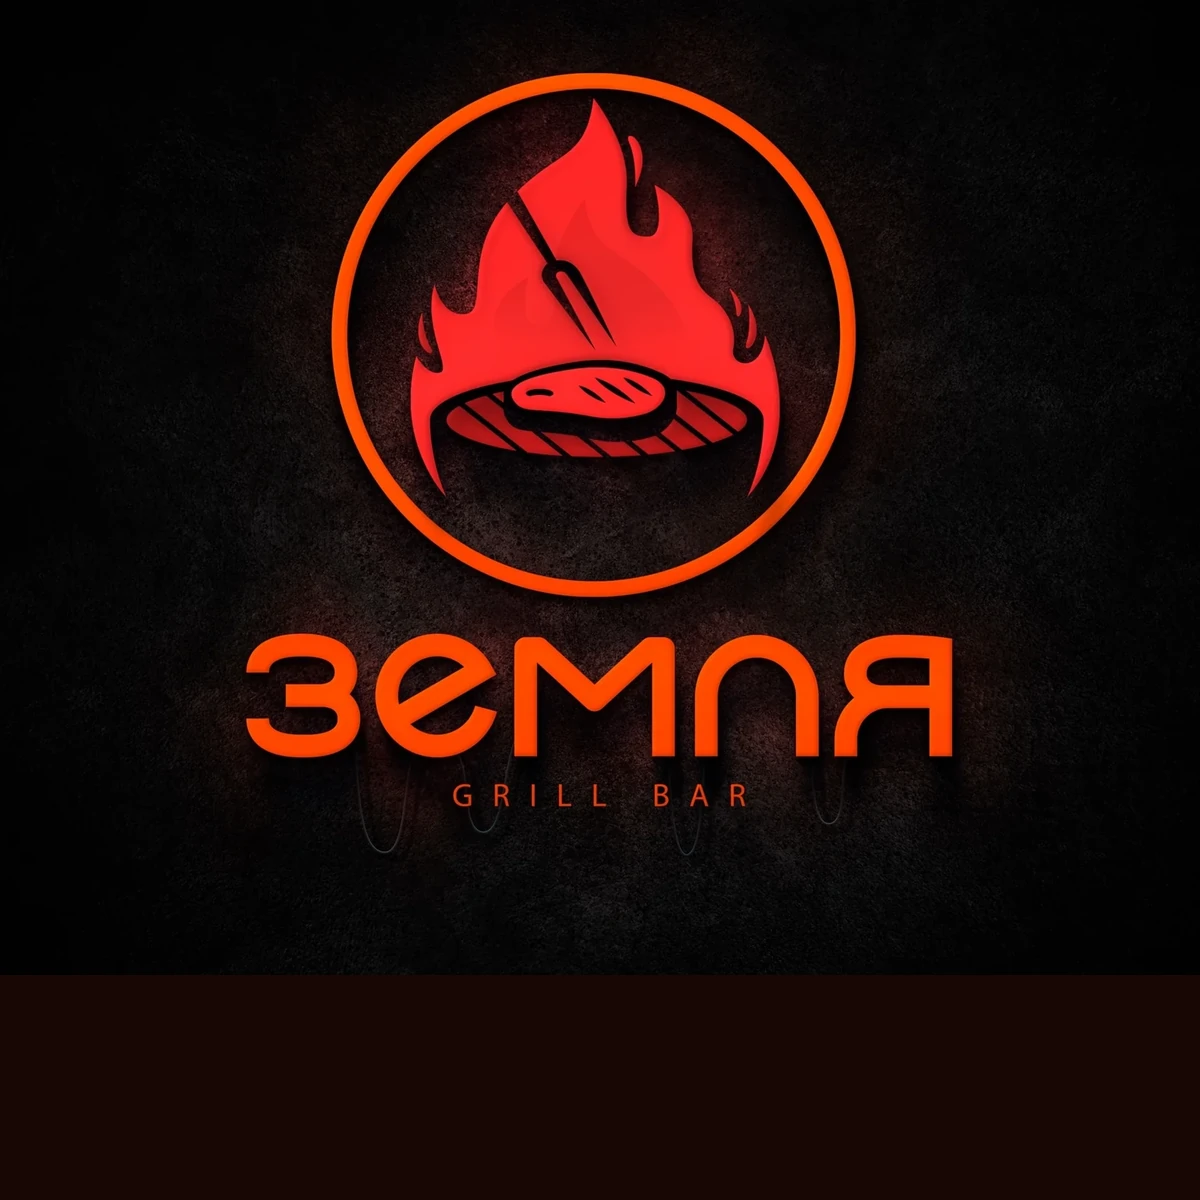
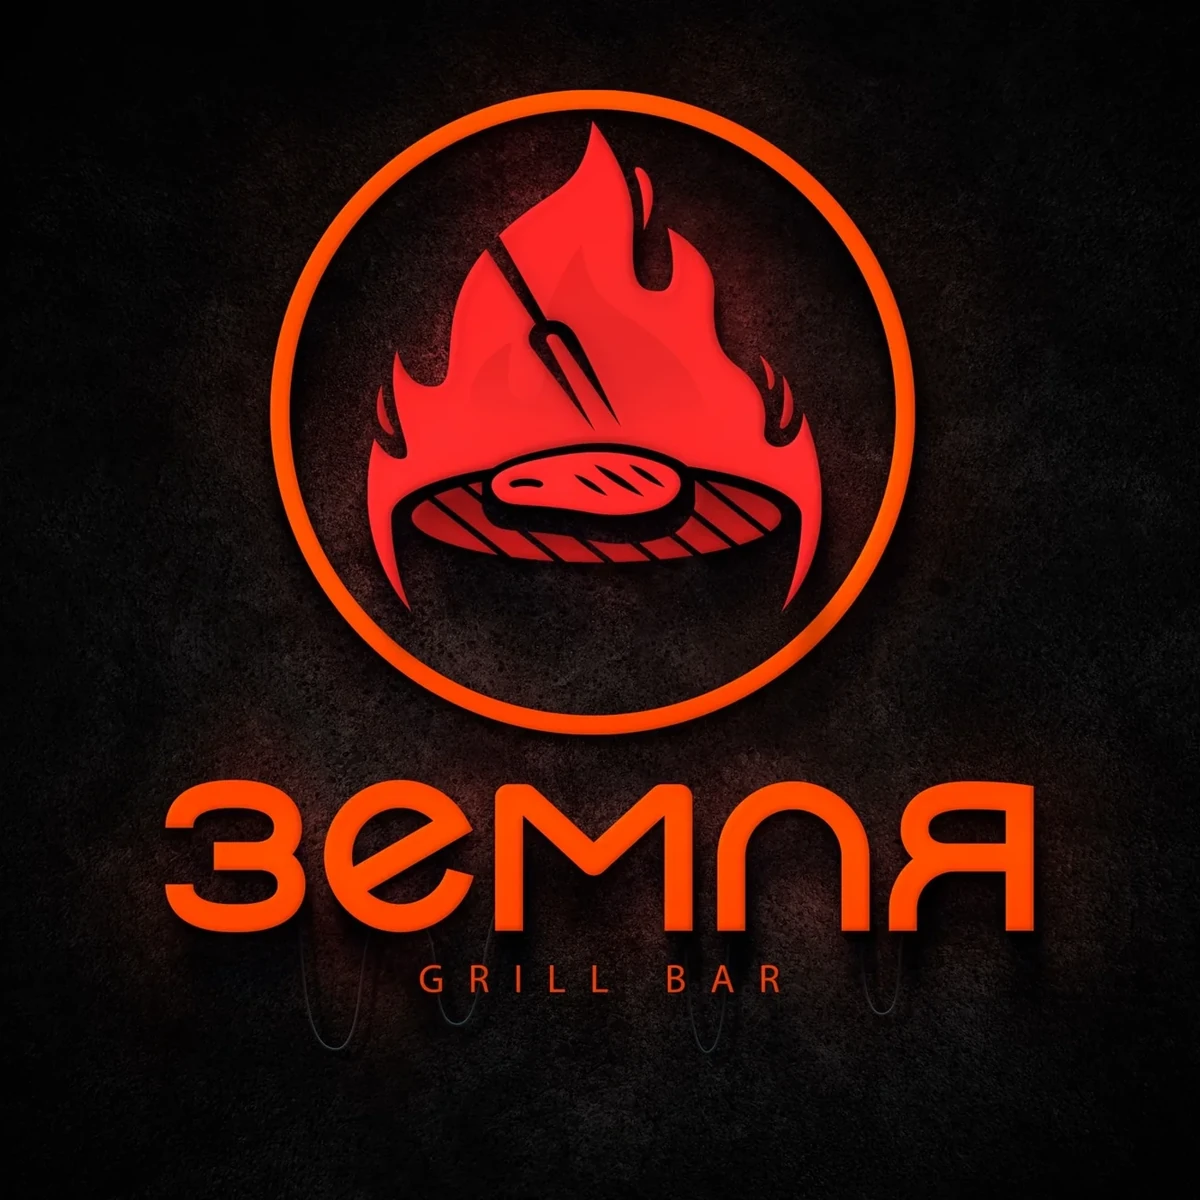
Fill landing cards edge to edge

Changed region(s): [[0.0925, 0.0617, 0.925, 0.8325], [0.2775, 0.8017, 0.3083, 0.8325]]

diff --git a/index.html b/index.html
@@ -7,15 +7,15 @@
   <meta name="description" content="Облака Lounge Bar и Земля Grill Bar">
   <title>Облака × Земля</title>
   <link rel="stylesheet" href="assets/style.css?v=41">
-  <link rel="stylesheet" href="assets/mobile-ui.css?v=4">
+  <link rel="stylesheet" href="assets/mobile-ui.css?v=5">
 </head>
 <body class="start-page">
   <main class="portal" aria-label="Заведения">
     <a class="brand-card brand-card--oblaka" href="oblaka.html" data-destination="oblaka.html" aria-label="Открыть Облака Lounge Bar">
-      <img class="brand-card__fallback" src="assets/oblaka-home-card.webp?v=202608092030" alt="Облака Lounge Bar">
+      <img class="brand-card__fallback" src="assets/oblaka-home-card.webp?v=202608092050" alt="Облака Lounge Bar">
     </a>
     <a class="brand-card brand-card--zemlya" href="zemlya.html" data-destination="zemlya.html" aria-label="Открыть Земля Grill Bar">
-      <img class="brand-card__fallback" src="assets/zemlya-home-card.webp?v=202608092030" alt="Земля Grill Bar">
+      <img class="brand-card__fallback" src="assets/zemlya-home-card.webp?v=202608092050" alt="Земля Grill Bar">
     </a>
   </main>
   <script src="assets/site.js?v=8"></script>

diff --git a/assets/mobile-ui.css b/assets/mobile-ui.css
@@ -54,8 +54,6 @@
 .brand-card__video { z-index: 1; opacity: 0; transition: opacity .35s ease, transform .9s cubic-bezier(.2,.7,0,1), filter .6s ease; }
 .brand-card__video.is-playing { opacity: 1; }
 .brand-card__shade { z-index: 2; }
-/* On short mobile WebViews, preserve the top of the Земля mark instead of cropping it. */
-.start-page .brand-card--zemlya .brand-card__fallback { object-position:center 35%; }
 
 @media (max-width:720px) {
   .booking { padding-top: max(150px, 19svh) !important; }
